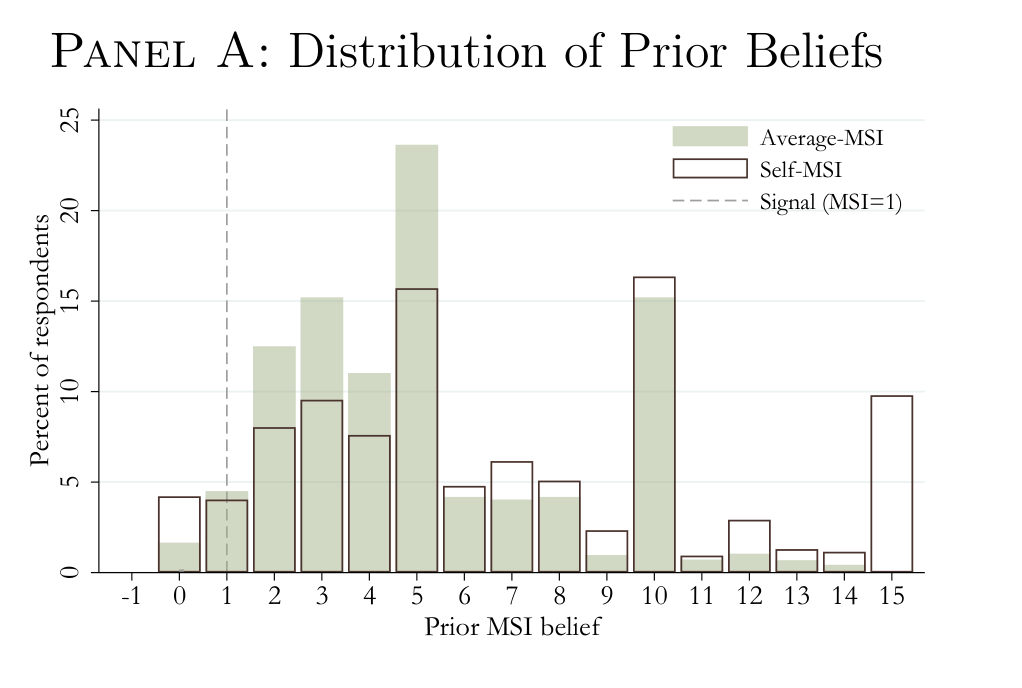
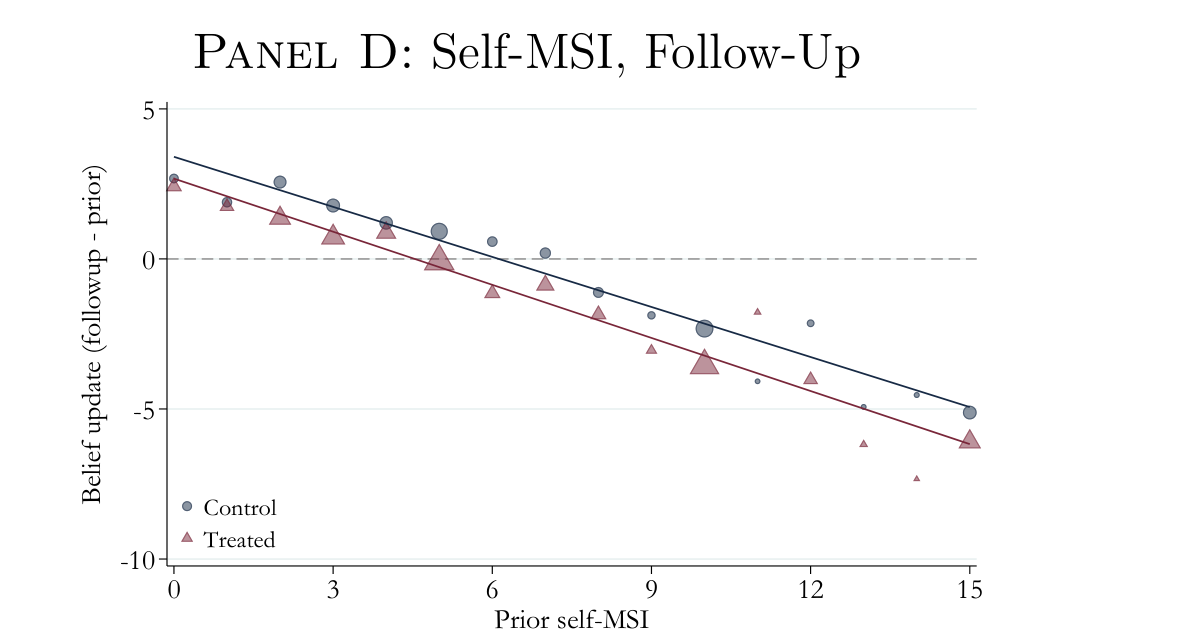
Redesign research page in figure-beside-abstract style; bio-only homepage
Per feedback:
- Research page restructured as three plain sections: Working Papers,
  Work in Progress, Policy and Other Writings. Each working paper is a
  side-by-side entry (figure left; title, coauthors, status, link badges,
  and full abstract right), following jpchauvin.com/papers.
- Working paper figures replaced with the requested ones:
  - Money paper: online-appendix Figure D.1 Panel D (heterogeneity in
    self-MSI belief updating at follow-up), extracted from the NBER
    online appendix.
  - Child-mothers paper: Figure 1 (estimated birth counts based on
    subsequent censuses), with status marked as Submitted.
- Work in Progress now lists Human Capital and Political Capital
  (Martinez-Correa) and the Mexico age-of-consent project.
- Policy and Other Writings trimmed to the two World Bank papers and the
  Artivate article.
- Homepage reduced to a short bio (third-year PhD student at UCLA
  Anderson) with pointers to the research, code, and CV pages; no
  project descriptions.
- Design refresh: serif (Georgia) headings, deep navy accent replacing
  the light blue, uppercase badge-style paper links, ruled section
  headers, new _sass/_custom.scss imported from assets/css/main.scss.
- Code page: skills section now describes the AI-led interview toolkit
  (QSF) from the money paper, files to be added.
- Profile photo recompressed 355KB -> 31KB.

Claude-Session: https://claude.ai/code/session_012axZGg1boALQKt8amXgEVs

diff --git a/_sass/_custom.scss b/_sass/_custom.scss
@@ -1,0 +1,109 @@
+/* ==========================================================================
+   Site-specific styles
+   ========================================================================== */
+
+/* section headers get a subtle rule under them */
+.page__content {
+
+  h2 {
+    padding-bottom: 0.3em;
+    border-bottom: 1px solid $border-color;
+  }
+
+  h3 {
+    margin-bottom: 0.25em;
+  }
+}
+
+/* coauthor / venue line under a paper title */
+.paper-meta {
+  margin-top: 0;
+  margin-bottom: 0.5em;
+  color: $gray;
+  font-size: 0.92em;
+}
+
+/* small uppercase badges for paper links */
+.paper-links {
+  margin-bottom: 0.75em;
+
+  a {
+    display: inline-block;
+    margin: 0 0.4em 0.4em 0;
+    padding: 0.1em 0.7em;
+    font-family: $sans-serif;
+    font-size: 0.72em;
+    letter-spacing: 0.05em;
+    text-transform: uppercase;
+    text-decoration: none;
+    color: $link-color;
+    border: 1px solid mix(#fff, $link-color, 55%);
+    border-radius: 3px;
+    transition: $global-transition;
+
+    &:hover {
+      color: #fff;
+      background-color: $link-color;
+      border-color: $link-color;
+    }
+  }
+}
+
+/* collapsible abstracts */
+.page__content details {
+  margin: 0.5em 0 1.5em;
+
+  summary {
+    cursor: pointer;
+    font-weight: bold;
+    color: $dark-gray;
+
+    &:hover {
+      color: $link-color;
+    }
+  }
+
+  p {
+    margin-top: 0.6em;
+    font-size: 0.94em;
+  }
+}
+
+/* working-paper entries: figure beside abstract (stacks on small screens) */
+.paper-entry {
+  display: flex;
+  flex-wrap: wrap;
+  align-items: flex-start;
+  gap: 1.6em;
+  margin: 1.6em 0 2.4em;
+
+  &__img {
+    flex: 1 1 250px;
+    max-width: 330px;
+
+    img {
+      width: 100%;
+      padding: 5px;
+      background: #fff;
+      border: 1px solid $border-color;
+      border-radius: $border-radius;
+    }
+  }
+
+  &__body {
+    flex: 2 1 340px;
+    min-width: 0;
+
+    h3 {
+      margin-top: 0;
+      margin-bottom: 0.2em;
+    }
+
+    .abstract {
+      margin-top: 0.6em;
+      font-size: 0.88em;
+      line-height: 1.6;
+      color: $dark-gray;
+    }
+  }
+}

diff --git a/_sass/_variables.scss b/_sass/_variables.scss
@@ -29,7 +29,7 @@ $calisto                    : "Calisto MT", serif;
 $garamond                   : Garamond, serif;
 
 $global-font-family         : $sans-serif;
-$header-font-family         : $sans-serif;
+$header-font-family         : $serif;
 $caption-font-family        : $serif;
 
 /* type scale */
@@ -90,7 +90,7 @@ $xing-color                 : #006567;
 
 
 /* links */
-$link-color                 : $info-color;
+$link-color                 : #166088;
 $link-color-hover           : mix(#000, $link-color, 25%);
 $link-color-visited         : mix(#fff, $link-color, 25%);
 $masthead-link-color        : $primary-color;

diff --git a/assets/css/main.scss b/assets/css/main.scss
@@ -33,6 +33,7 @@
 @import "page";
 @import "archive";
 @import "sidebar";
+@import "custom";
 
 @import "vendor/font-awesome/fontawesome";
 @import "vendor/font-awesome/solid";

diff --git a/_pages/research.md b/_pages/research.md
@@ -5,127 +5,73 @@ permalink: /research/
 author_profile: true
 ---
 
-My research sits at the intersection of **behavioral**, **development**, and **political
-economy**. A common thread runs through it: people and institutions act on *beliefs* —
-about how much money will make us happy, about who counts as a mother, about who is to
-blame for a lost job — and those beliefs are often systematically wrong in ways that shape
-real decisions and the data we use to measure them.
-
-{% if author.googlescholar %}
-You can also find my articles on <u><a href="{{author.googlescholar}}">my Google Scholar profile</a></u>.
-{% endif %}
-
 ## Working Papers
 
-### Is Money Overrated? Misperceived Satisfaction from Income
+<div class="paper-entry">
+  <div class="paper-entry__img">
+    <img src="/images/wp-money-overrated.png" alt="Binned scatterplot of belief updating about the marginal satisfaction from income at the one-month follow-up: treated respondents revise their beliefs downward relative to the control group, and more so the higher their prior belief.">
+  </div>
+  <div class="paper-entry__body" markdown="1">
 
-with [Ricardo Perez-Truglia](https://www.ricardotruglia.com/)<br>
-*NBER Working Paper No. 35423*, July 2026 &nbsp;·&nbsp; JEL: C93, D91, I31
+### [Is Money Overrated? Misperceived Satisfaction from Income](https://www.nber.org/papers/w35423)
 
-<a href="https://www.nber.org/papers/w35423">NBER</a> &nbsp;·&nbsp;
-<a href="http://www.nber.org/data-appendix/w35423">Online appendix</a> &nbsp;·&nbsp;
-<a href="https://www.socialscienceregistry.org/trials/18251">Pre-registration (AEA RCT Registry)</a>
+with [Ricardo Perez-Truglia](https://www.ricardotruglia.com/)
+{: .paper-meta}
 
-<figure>
-  <img src="/images/wp-money-overrated.png" alt="Histogram of respondents' prior beliefs about the marginal satisfaction from income, with most beliefs clustered well to the right of the scientific-evidence benchmark of one.">
-  <figcaption>What people believe income does for happiness, against what the evidence
-  says. Beliefs about the marginal satisfaction from income — for themselves (Self-MSI)
-  and for the average person (Average-MSI) — pile up far to the right of the
-  scientific-evidence benchmark (dashed line, MSI = 1).</figcaption>
-</figure>
+*NBER Working Paper No. 35423*, July 2026
+{: .paper-meta}
 
-<details>
-  <summary><b>Abstract</b></summary>
-  <p>People often make important choices in pursuit of higher income, but do they place
-  too much weight on income when deciding what path to take? We propose a simple model of
-  misspecified learning in which individuals overestimate the marginal satisfaction from
-  income—the expected effect of an income increase on overall life satisfaction—and
-  therefore give income too much importance in their decisions. Guided by this model, we
-  designed a pre-registered experiment that elicits beliefs about the marginal satisfaction
-  from income and randomly assigns scientific evidence about it. Respondents report beliefs
-  about the marginal satisfaction from income that are substantially above the
-  scientific-evidence benchmark, both for themselves and for others, with a larger gap for
-  themselves. These gaps shrink when respondents are exposed to scientific evidence, and
-  the effects persist one month later. To study whether these beliefs matter for behavior,
-  we measure income-versus-non-income trade-offs using job-choice scenarios tailored to
-  each respondent and a real-world decision the respondent is facing. To elicit the latter,
-  we make a methodological contribution: an AI-led interview method that moves beyond
-  static, predefined survey instruments by combining the flexibility of qualitative
-  interviewing with the discipline of closed-ended survey measurement. We find that these
-  beliefs are consequential: after learning that income matters less for life satisfaction
-  than they initially thought, respondents place less weight on income in their
-  decisions.</p>
-</details>
+[NBER](https://www.nber.org/papers/w35423) [Online Appendix](https://data.nber.org/data-appendix/w35423/) [Pre-registration](https://www.socialscienceregistry.org/trials/18251)
+{: .paper-links}
 
-<br>
+People often make important choices in pursuit of higher income, but do they place too much weight on income when deciding what path to take? We propose a simple model of misspecified learning in which individuals overestimate the marginal satisfaction from income—the expected effect of an income increase on overall life satisfaction—and therefore give income too much importance in their decisions. Guided by this model, we designed a pre-registered experiment that elicits beliefs about the marginal satisfaction from income and randomly assigns scientific evidence about it. Respondents report beliefs about the marginal satisfaction from income that are substantially above the scientific-evidence benchmark, both for themselves and for others, with a larger gap for themselves. These gaps shrink when respondents are exposed to scientific evidence, and the effects persist one month later. To study whether these beliefs matter for behavior, we measure income-versus-non-income trade-offs using job-choice scenarios tailored to each respondent and a real-world decision the respondent is facing. To elicit the latter, we make a methodological contribution: an AI-led interview method that moves beyond static, predefined survey instruments by combining the flexibility of qualitative interviewing with the discipline of closed-ended survey measurement. We find that these beliefs are consequential: after learning that income matters less for life satisfaction than they initially thought, respondents place less weight on income in their decisions.
+{: .abstract}
 
-### The Undercounting of Births to Child Mothers
+  </div>
+</div>
 
-with [Juan Pablo Chauvin](https://www.juanpablochauvin.com/) and [Miguel Ángel Talamas Marcos](https://www.migueltalamas.org/)<br>
-*IDB Working Paper No. 13989*, 2025 &nbsp;·&nbsp; JEL: J13, D10, J18, D82
+<div class="paper-entry">
+  <div class="paper-entry__img">
+    <img src="/images/wp-child-mother-births.png" alt="Two scatterplots of log births recorded in the census against log births implied by the census ten years later. For mothers aged 15 to 24 the points sit on the 45-degree line; for mothers aged 10 to 14 they sit well below it, indicating undercounting.">
+  </div>
+  <div class="paper-entry__body" markdown="1">
 
-<a href="https://papers.ssrn.com/sol3/papers.cfm?abstract_id=6153086">SSRN</a> &nbsp;·&nbsp;
-<a href="https://publications.iadb.org/en/undercounting-child-mother-births">IDB Publications</a>
+### [The Undercounting of Births to Child Mothers](https://papers.ssrn.com/sol3/papers.cfm?abstract_id=6153086)
 
-<!-- FIGURE SLOT — drop one figure from this paper here once the PNG is added to /images/:
-<figure>
-  <img src="/images/wp-child-mother-births.png" alt="">
-  <figcaption></figcaption>
-</figure>
--->
+with [Juan Pablo Chauvin](https://www.jpchauvin.com/) and [Miguel Ángel Talamas Marcos](https://www.migueltalamas.org/)
+{: .paper-meta}
 
-<details>
-  <summary><b>Summary</b></summary>
-  <p>Accurate demographic data are essential for effective policy design, yet the private
-  costs of disclosure may deter people from truthfully reporting sensitive information. We
-  study this reporting failure in the context of child motherhood. Using administrative
-  records from Brazil, Mexico, and the United States together with census data from 59
-  countries, we document that births to mothers aged 10–14 are frequently missing from
-  contemporaneous birth registries but resurface in censuses taken a decade later, with
-  undercounting on the order of 20–30 percent. We develop a model in which reporting
-  decisions trade off instrumental benefits against age-dependent private costs. Its
-  predictions match the data: truthful reporting rises sharply with the mother's age,
-  underreporting falls as more time elapses between the birth and data collection, and
-  retrospective census estimates are more accurate than contemporaneous administrative
-  records for this age group — but not for older mothers. The evidence points to social
-  costs, rather than fear of legal consequences, as the primary driver of
-  underreporting.</p>
-  <p><i>Summary prepared for this page — see <a href="https://papers.ssrn.com/sol3/papers.cfm?abstract_id=6153086">SSRN</a> for the paper's official abstract.</i></p>
-</details>
+*IDB Working Paper No. 13989* &nbsp;·&nbsp; Submitted
+{: .paper-meta}
+
+[SSRN](https://papers.ssrn.com/sol3/papers.cfm?abstract_id=6153086) [IDB](https://publications.iadb.org/en/undercounting-child-mother-births)
+{: .paper-links}
+
+Accurate demographic data are essential for effective policy design, yet the private costs of disclosure may deter people from truthfully reporting sensitive information. We study this reporting failure in the context of child motherhood. Using administrative records from Brazil, Mexico, and the United States together with census data from 59 countries, we document that births to mothers aged 10–14 are frequently missing from contemporaneous birth registries but resurface in censuses taken a decade later, with undercounting on the order of 20–30 percent. We develop a model in which reporting decisions trade off instrumental benefits against age-dependent private costs. Its predictions match the data: truthful reporting rises sharply with the mother's age, underreporting falls as more time elapses between the birth and data collection, and retrospective census estimates are more accurate than contemporaneous administrative records for this age group — but not for older mothers. The evidence points to social costs, rather than fear of legal consequences, as the primary driver of underreporting.
+{: .abstract}
+
+  </div>
+</div>
 
 ## Work in Progress
 
-**Minimum legal age of sexual consent and adolescent outcomes in Mexico**<br>
-<span style="color: #7a8288;">with Juan Pablo Chauvin and Miguel Ángel Talamas Marcos</span><br>
-Estimating the effects of changes in the minimum legal age of sexual consent across
-Mexican states on early fertility, early marriage, and crime incidence.
-
-**Labor market shocks and political preferences**<br>
-<span style="color: #7a8288;">with Julian Martinez-Correa (University of Chicago)</span><br>
-How much do negative labor market experiences shift people's political leaning and voting
-behavior — and what are the mechanisms behind that shift?
+- **Human Capital and Political Capital** — with Julian Martinez-Correa (University of
+  Chicago). How negative labor market experiences shape people's political leaning and
+  voting behavior, and why.
+- **Minimum legal age of sexual consent and adolescent outcomes in Mexico** — with Juan
+  Pablo Chauvin and Miguel Ángel Talamas Marcos. Effects of changes in Mexican states'
+  age-of-consent laws on early fertility, early marriage, and crime incidence.
 
 ## Policy and Other Writings
 
-Lara Ibarra, G.; **Rubião, R. M.**; and Fleury, E. (2021). [Indirect Tax Incidence in
-Brazil: Assessing the Distributional Effects of Potential Tax
-Reforms](https://openknowledge.worldbank.org/handle/10986/36783). *Policy Research Working
-Paper No. 9891*, World Bank, Washington, DC.
-
-**Rubião, R. M.**; Sousa, L.; and Cereda, F. (2020). COVID-19, Labor Market Shocks, and
-Poverty in Brazil: A Microsimulation Analysis. *Policy Note*, Poverty and Equity Global
-Practice, World Bank, Washington, DC.
-
-**Rubião, R. M.** (2018). Bancos de Desenvolvimento em questão: o impacto do ocaso dos
-fundos estaduais no "D" do BDMG. In: *Prêmio ABDE-BID*. Associação Brasileira de
-Desenvolvimento, ABDE Editorial, Rio de Janeiro, pp. 99–126. <span style="color: #7a8288;">— ABDE-IDB Selected Papers Prize</span>
-
-**Rubião, R. M.** (2017). [A short but deep dive into the economics of arts: Art
-Entrepreneurs in a Peripheral
-Market](https://www.artivate.org/index.php/artivate/article/download/81/70). *Artivate: A
-Journal of Entrepreneurship in the Arts*, 7(2), 3–26.
-
-## Earlier Work
-
-For my MSc dissertation at UCL, I investigated the effects of the 4G mobile internet
-roll-out on mental health in the UK. Available on request.
+- Lara Ibarra, G.; **Rubião, R. M.**; and Fleury, E. (2021). [Indirect Tax Incidence in
+  Brazil: Assessing the Distributional Effects of Potential Tax
+  Reforms](https://openknowledge.worldbank.org/handle/10986/36783). *Policy Research
+  Working Paper No. 9891*, World Bank, Washington, DC.
+- **Rubião, R. M.**; Sousa, L.; and Cereda, F. (2020). COVID-19, Labor Market Shocks, and
+  Poverty in Brazil: A Microsimulation Analysis. *Policy Note*, Poverty and Equity Global
+  Practice, World Bank, Washington, DC.
+- **Rubião, R. M.** (2017). [A short but deep dive into the economics of arts: Art
+  Entrepreneurs in a Peripheral
+  Market](https://www.artivate.org/index.php/artivate/article/download/81/70). *Artivate:
+  A Journal of Entrepreneurship in the Arts*, 7(2), 3–26.

diff --git a/_pages/about.md b/_pages/about.md
@@ -9,18 +9,12 @@ redirect_from:
 ---
 
 
-Welcome! I am a PhD student at the [University of California, Los Angeles](https://www.anderson.ucla.edu/degrees/phd-program/areas-of-study/global-economics-and-management/meet-the-students/rafael-macedo-rubi%C3%A3o). I am part of the Global Economics and Management Department, at the Anderson School of Management. Previously, I worked for the [World Bank](https://www.worldbank.org) and the [Inter-American Development Bank (IDB)](https://www.iadb.org/en/about-us/departments/res). I have a master's degree in economics with Distinction from the [University College London (UCL)](https://www.ucl.ac.uk/economics), and an undergraduate degree in Economics from the [Federal University of Minas Gerais (UFMG)](https://www.face.ufmg.br/departamentos/ciencias-economicas/o-departamento.html). 
+Welcome! I am a third-year PhD student in Business Economics at the [University of California, Los Angeles](https://www.anderson.ucla.edu/degrees/phd-program/areas-of-study/global-economics-and-management/meet-the-students/rafael-macedo-rubi%C3%A3o), in the Global Economics and Management area at the Anderson School of Management.
 
-My research interests lie in the fields of behavioral, development, and political economy, especially in questions related to how norms and beliefs interact with institutions. I am also broadly interested in questions related to preferences formation and discrimination. 
+My research interests lie in the fields of behavioral, development, and political economy, especially in questions related to how norms and beliefs interact with institutions. I am also broadly interested in questions related to preferences formation and discrimination.
 
-In my most recent working paper, joint with Ricardo Perez-Truglia, we ask whether people overestimate how much income raises life satisfaction — and whether correcting that belief changes the choices they make. [*Is Money Overrated? Misperceived Satisfaction from Income*](https://www.nber.org/papers/w35423) is out as NBER Working Paper No. 35423.
+Before UCLA, I worked for the [World Bank](https://www.worldbank.org) and the [Inter-American Development Bank (IDB)](https://www.iadb.org/en/about-us/departments/res). I hold a master's degree in Economics with Distinction from [University College London (UCL)](https://www.ucl.ac.uk/economics) and an undergraduate degree in Economics from the [Federal University of Minas Gerais (UFMG)](https://www.face.ufmg.br/departamentos/ciencias-economicas/o-departamento.html), in Brazil.
 
-In a second working paper, with Juan Pablo Chauvin and Miguel Talamas (RES-IDB), we measure how badly births to child mothers are undercounted around the world, and why. [*The Undercounting of Births to Child Mothers*](https://papers.ssrn.com/sol3/papers.cfm?abstract_id=6153086) is available on SSRN.
-
-I have two further projects underway: one, also with Juan Pablo Chauvin and Miguel Talamas, estimating the effects of changes in the minimum legal age of sexual consent in Mexican States on outcomes such as early fertility, early marriage, and crime incidence; and another, joint with Julian Martinez-Correa (UChicago), estimating how much negative labor market experiences affect people's political leaning and voting behavior, and the reasons behind it.
-
-You can find all of it, with abstracts and links, on my [research page](/research/). I also share the tools I build for my own work — survey instruments, replication code, and agent skills — on the [code and resources page](/code/).
-
-For my MSc dissertation (available upon request), I investigated the effects of the 4G mobile internet roll-out on mental health in the UK.
+You can find my papers on the [research page](/research/), the tools I share on the [code & resources page](/code/), and a PDF of my [CV here](/cv/).
 
 In my free time I like playing Brazilian music with friends, reading literature, and enjoying the nature.

diff --git a/_pages/code.md b/_pages/code.md
@@ -31,13 +31,17 @@ every time instead of being re-improvised in each conversation.
 
 ────────────────────────────────────────────────────────────────────────────── -->
 
-<!-- TODO(Rafael): the QSF skill goes here — the Qualtrics survey-format tool we built.
-     I did not have the details on hand when this page was written, so I have left the
-     entry out rather than describe it inaccurately. Send me the description, the
-     repo/download link, and the trigger conditions, and I will fill it in using the
-     template above. -->
+### AI-Led Interview Toolkit (Qualtrics QSF)
 
-*First entries coming shortly.*
+A ready-to-import Qualtrics survey implementing the AI-led interview method we developed
+for [*Is Money Overrated?*](https://www.nber.org/papers/w35423) — moving beyond static,
+predefined survey instruments by combining the flexibility of qualitative interviewing
+with the discipline of closed-ended survey measurement.
+
+*Survey file and documentation coming soon.*
+
+<!-- TODO(Rafael): add the QSF download link + implementation appendix from
+     ai_interview_toolkit once uploaded. -->
 
 ## Packages
 
